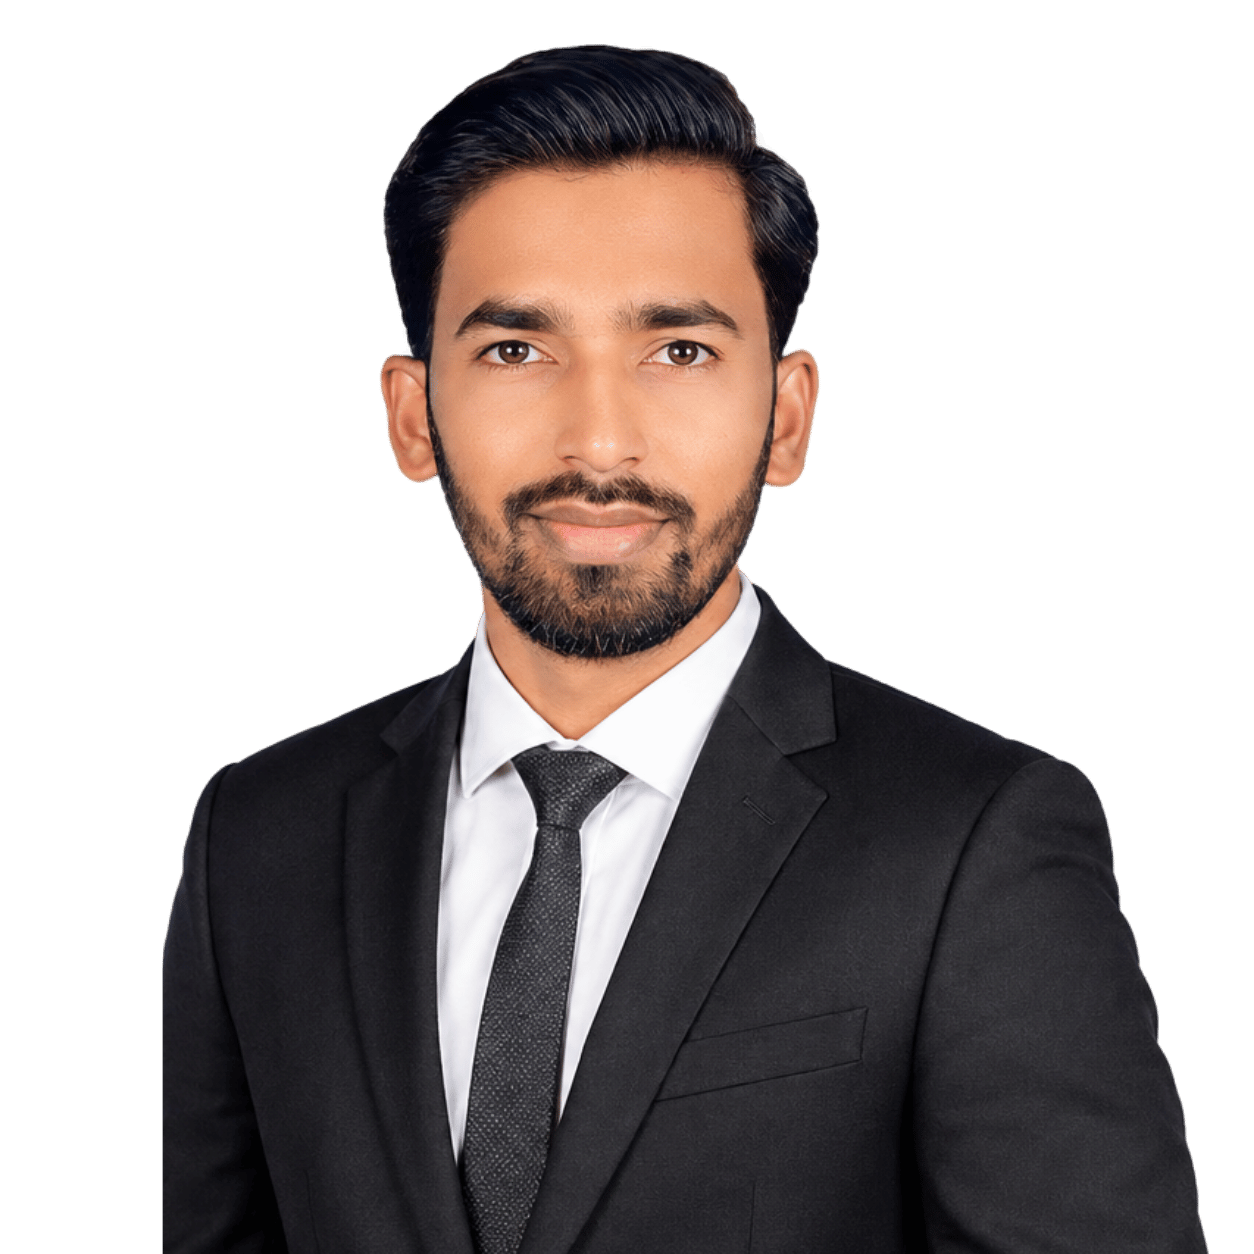
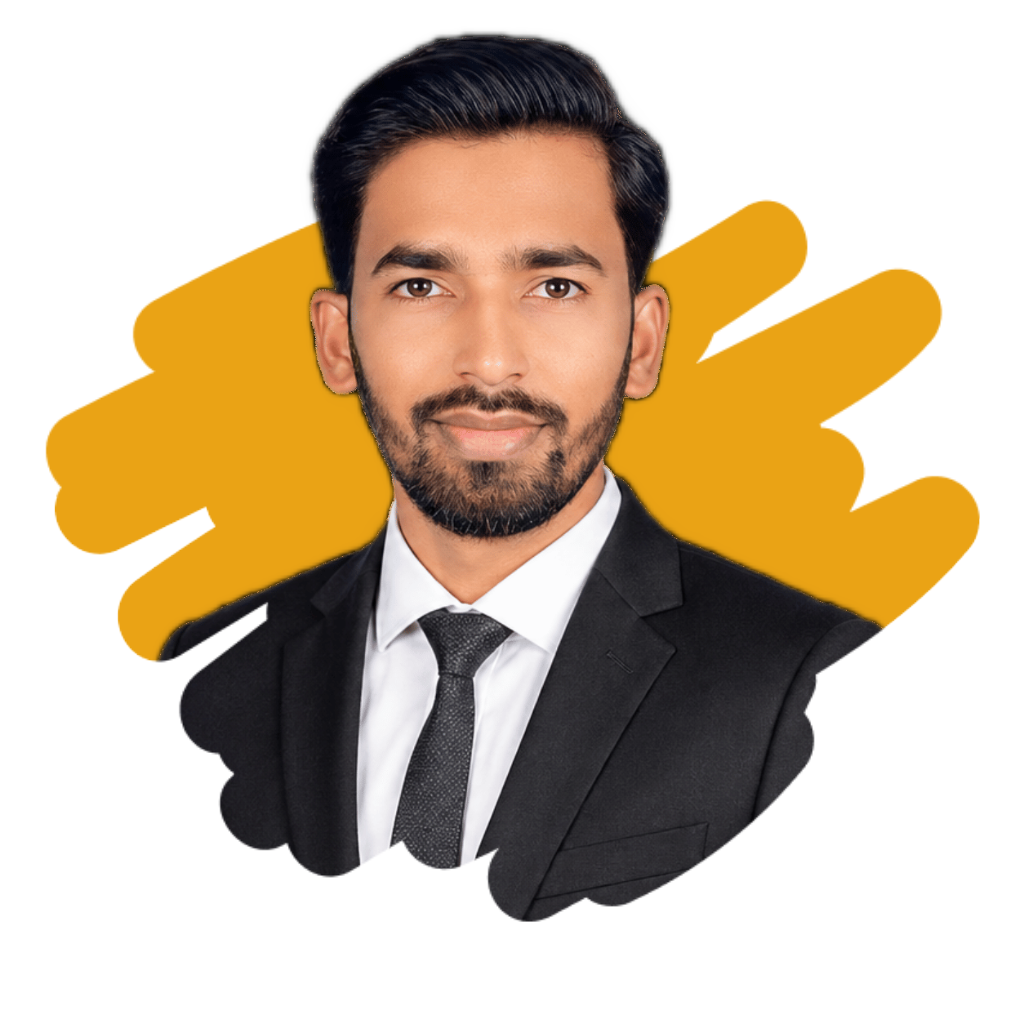
Directly display updated stylized profile.png artwork without HTML background shapes

diff --git a/index.html b/index.html
@@ -173,28 +173,17 @@
         
         <div class="grid grid-cols-1 lg:grid-cols-12 gap-6 sm:gap-8 lg:gap-12 items-center">
             
-            <!-- HERO VISUAL COMPOSITION (Large Pop-Out Portrait - No Clutter Widgets) -->
-            <div class="order-1 lg:order-2 lg:col-span-5 relative flex justify-center items-center py-4 sm:py-8">
+            <!-- HERO VISUAL COMPOSITION (Direct Stylized Artwork Display) -->
+            <div class="order-1 lg:order-2 lg:col-span-5 relative flex justify-center items-center py-2 sm:py-6">
                 
-                <div class="relative w-[300px] h-[360px] xs:w-[340px] xs:h-[410px] sm:w-[420px] sm:h-[500px] lg:w-[460px] lg:h-[540px] flex items-end justify-center">
+                <div class="relative w-[300px] h-[300px] xs:w-[360px] xs:h-[360px] sm:w-[440px] sm:h-[440px] lg:w-[480px] lg:h-[480px] flex items-center justify-center">
                     
-                    <!-- Main Vibrant Gold/Yellow Organic Backdrop Circle (Positioned so top pops out and bottom is covered by suit) -->
-                    <div class="absolute w-[90%] h-[80%] top-10 sm:top-14 bg-brand-gold rounded-[50%_50%_40%_60%/60%_40%_60%_40%] animate-pulse-slow shadow-2xl transition-all duration-700 hover:rounded-[40%_60%_50%_50%/50%_50%_40%_60%]"></div>
-                    
-                    <!-- Soft Background Accent Ring -->
-                    <div class="absolute w-[94%] h-[83%] top-8 sm:top-12 bg-brand-green/15 rounded-[60%_40%_50%_50%/40%_60%_50%_50%] transform -rotate-6 blur-sm"></div>
-
-                    <!-- Cutout Portrait Display (Shoaib's head pops out over the top of the circle, suit covers bottom) -->
-                    <div class="relative z-10 w-full h-full flex flex-col items-center justify-end overflow-visible">
-                        
-                        <!-- High Resolution Professional Portrait -->
-                        <div class="relative w-full h-full flex items-end justify-center">
-                            <img src="profile.png" 
-                                 alt="Shoaib Aamir - Business Consultant" 
-                                 class="w-full h-full object-contain object-bottom drop-shadow-[0_20px_25px_rgba(0,0,0,0.35)] filter contrast-[1.05]"
-                                 onerror="this.onerror=null; this.parentNode.innerHTML='<div class=\'w-full h-full flex flex-col items-center justify-center text-brand-greenDark\'><i class=\'fa-solid fa-user-tie text-7xl sm:text-9xl filter drop-shadow-lg\'></i><span class=\'font-black text-lg sm:text-xl mt-2 tracking-tight\'>Shoaib Aamir</span></div>';">
-                        </div>
-
+                    <!-- High Resolution Stylized Portrait Artwork -->
+                    <div class="relative w-full h-full flex items-center justify-center">
+                        <img src="profile.png" 
+                             alt="Shoaib Aamir - Business Consultant" 
+                             class="w-full h-full object-contain drop-shadow-[0_20px_30px_rgba(0,0,0,0.25)] hover:scale-105 transition-transform duration-500"
+                             onerror="this.onerror=null; this.parentNode.innerHTML='<div class=\'w-full h-full flex flex-col items-center justify-center text-brand-greenDark\'><i class=\'fa-solid fa-user-tie text-7xl sm:text-9xl filter drop-shadow-lg\'></i><span class=\'font-black text-lg sm:text-xl mt-2 tracking-tight\'>Shoaib Aamir</span></div>';">
                     </div>
 
                 </div>
